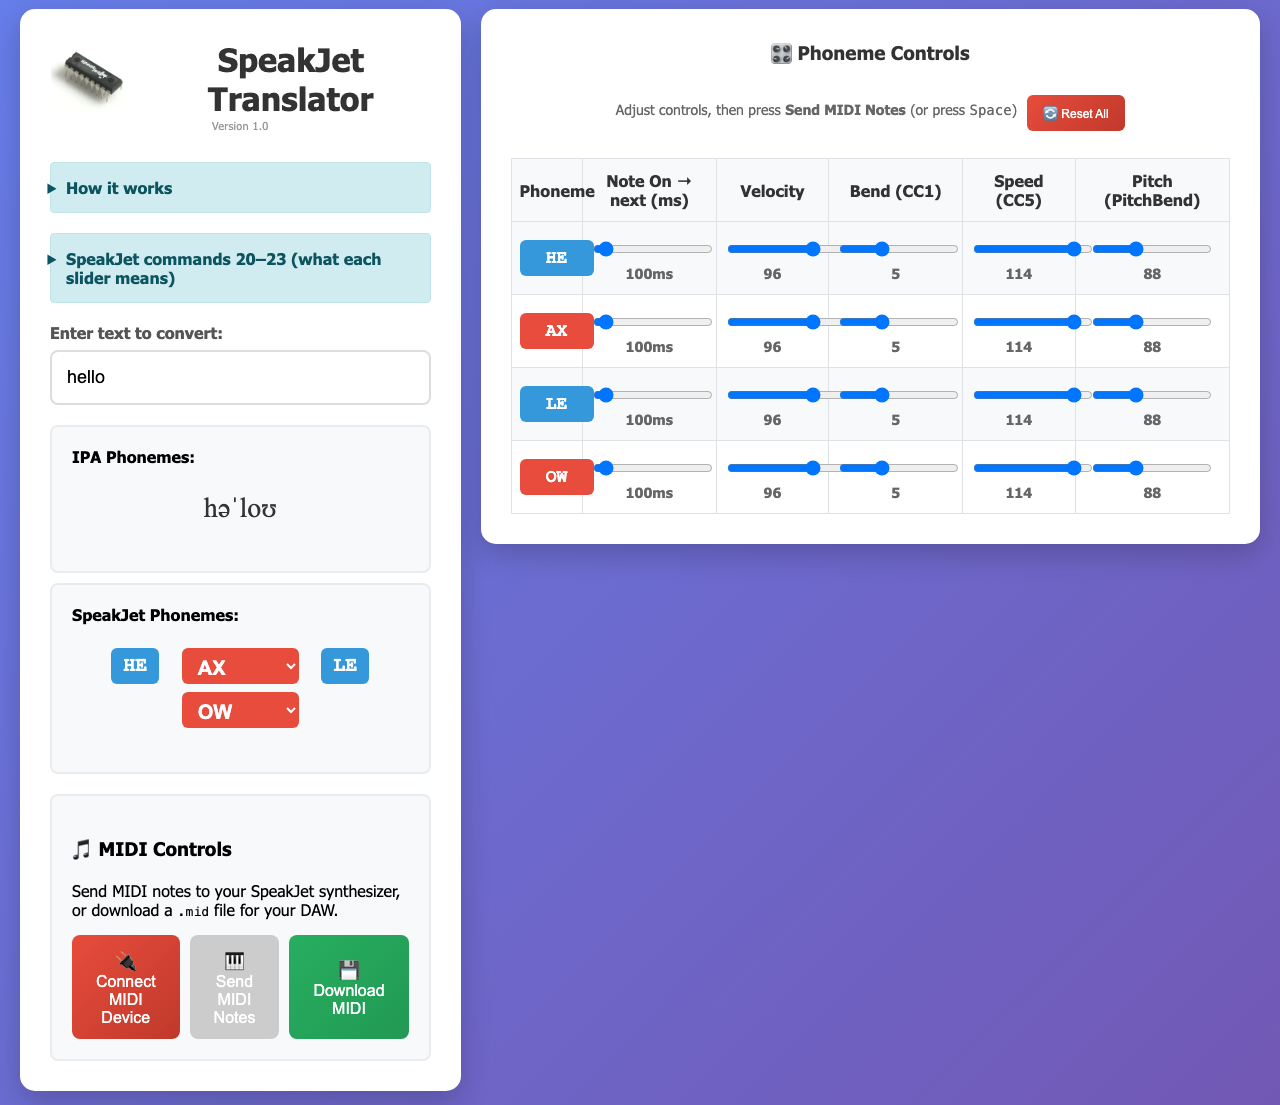
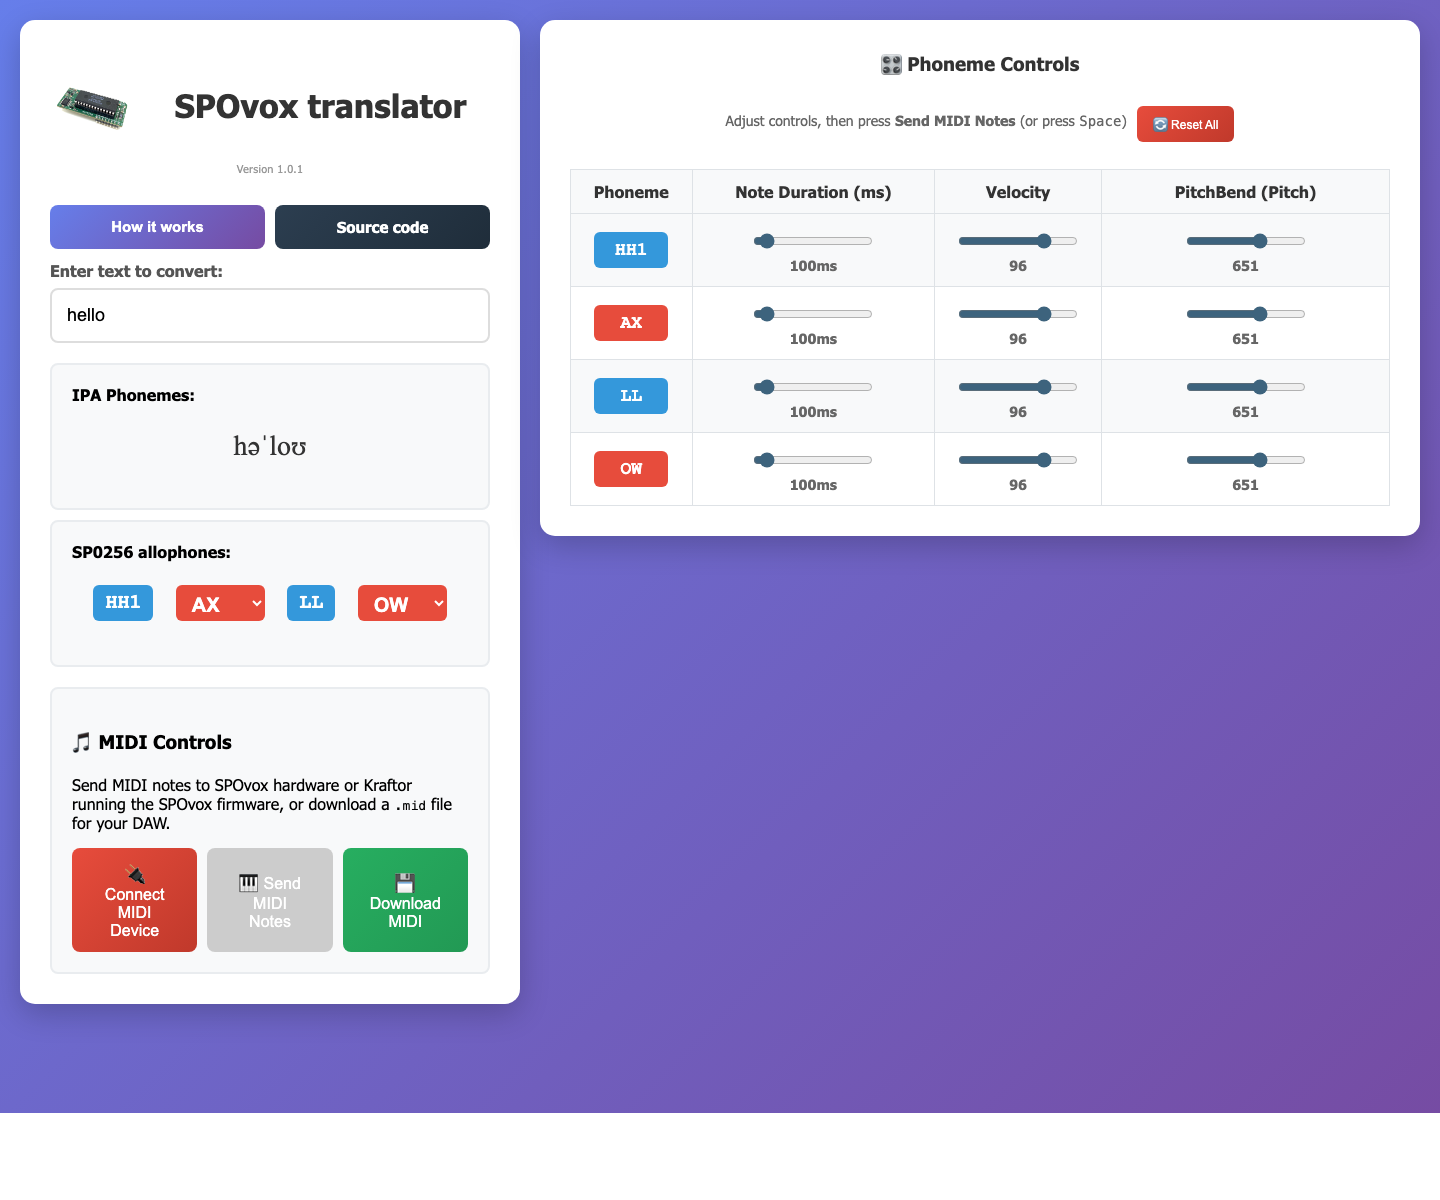
Removing Speakjet References

diff --git a/index.html b/index.html
@@ -4,7 +4,7 @@
 <head>
     <meta charset="UTF-8">
     <meta name="viewport" content="width=device-width, initial-scale=1.0">
-    <title>SP0256 Translator</title>
+    <title>SPOvox translator</title>
     <script src="https://cdn.jsdelivr.net/npm/nexusui@2.1.0/dist/NexusUI.js"></script>
     <style>
         body {
@@ -550,18 +550,18 @@
                             <img src="chip.png" alt="Chip" style="width: 100%; height: auto;">
                         </td>
                         <td style="vertical-align: middle;">
-                            <h1 style="margin: 0;">SP0256 Translator</h1>
+                            <h1 style="margin: 0;">SPOvox translator</h1>
                         </td>
                     </tr>
                 </table>
-                <p class="app-version">Version 1.0</p>
+                <p class="app-version">Version 1.0.1</p>
             </div>
 
             <div class="resource-actions">
                 <button type="button" id="howItWorksBtn" class="resource-btn" aria-expanded="false" aria-controls="howItWorksPanel">
                     How it works
                 </button>
-                <a class="resource-btn source-code-btn" href="#" aria-label="Source code link placeholder">
+                <a class="resource-btn source-code-btn" href="https://deladriere.github.io/Spo_vox_translator/" aria-label="Open SPOvox translator page">
                     Source code
                 </a>
             </div>
@@ -570,7 +570,7 @@
                 <div class="info-body">
                     <ul>
                         <li>Type English text; it is converted to approximate IPA, then mapped to <strong>SP0256-AL2</strong>
-                            allophone labels from the firmware. MIDI <strong>Note On</strong> uses
+                            allophone labels for the <strong>SPOvox firmware</strong> running on <strong>Kraftor</strong>. MIDI <strong>Note On</strong> uses
                             <strong>note = 36 + index</strong> into that table (channel matches your device; default Web MIDI channel 1).</li>
                         <li>Consonants are blue badges; vowels and vowel-like allophones are red dropdowns so you can swap sounds quickly.</li>
                         <li>The <strong>Phoneme Controls</strong> panel sets per-token <strong>note duration</strong> (in ms),
@@ -579,7 +579,7 @@
                         <li><strong>Connect MIDI Device</strong> then <strong>Send MIDI Notes</strong> plays the
                             sequence over Web MIDI (Chrome/Edge). With the text field <em>not</em> focused, <kbd>Space</kbd>
                             sends the sequence.</li>
-                        <li><strong>Download MIDI</strong> saves <code>Spo256.mid</code> for your DAW—no MIDI hardware
+                        <li><strong>Download MIDI</strong> saves <code>SPOvox.mid</code> for your DAW—no MIDI hardware
                             required. Export keeps the same Note On timing as live send and avoids trailing stop events.</li>
                     </ul>
                 </div>
@@ -609,7 +609,7 @@
 
             <div class="midi-section">
                 <h3>🎵 MIDI Controls</h3>
-                <p>Send MIDI notes to your SP0256 bridge (e.g. <code>Emy.ino</code>), or download a <code>.mid</code> file for your DAW.</p>
+                <p>Send MIDI notes to SPOvox hardware or Kraftor running the SPOvox firmware, or download a <code>.mid</code> file for your DAW.</p>
 
                 <div id="midiConnectionStatus" class="status" style="display: none; margin-bottom: 15px;"></div>
 
@@ -645,7 +645,7 @@
     <div id="midiDialog" class="midi-dialog">
         <div class="midi-dialog-content">
             <h3>🎹 Select MIDI Device</h3>
-            <p>Choose a MIDI output device to connect to your SP0256 interface:</p>
+            <p>Choose a MIDI output device to connect to your SPOvox hardware or Kraftor running the SPOvox firmware:</p>
 
             <div id="deviceList" class="device-list">
                 <div class="device-item">Loading MIDI devices...</div>
@@ -659,7 +659,7 @@
     </div>
 
     <script>
-        // SP0256-AL2 allophone labels and MIDI routing (Emy.ino).
+        // SP0256-AL2 allophone labels and MIDI routing for the SPOvox firmware.
         // handleNoteOn: index = note - 36; SPO.writeGPIO(index) with al_label[index].
         const MIDI_PHONEME_CHANNEL = 0;
         const MIDI_NOTE_OFFSET = 36;
@@ -1487,7 +1487,7 @@
                 trackEvents.push(statusByte(0xE0, midiEvent.channel), bendLsb, bendMsb); // Pitch bend before phoneme
                 trackEvents.push(0x00);
                 trackEvents.push(statusByte(0x90, midiEvent.channel), midiEvent.note, velocity);
-                // The SP0256 bridge only needs Note On triggers. Omitting Note Off avoids
+                // SPOvox firmware only needs Note On triggers. Omitting Note Off avoids
                 // trailing PA1 on firmware that maps Note Off to phoneme 0.
                 deltaBeforePhoneme = Math.max(0, delayTicks);
             });
@@ -1510,7 +1510,7 @@
             const url = URL.createObjectURL(blob);
             const a = document.createElement('a');
             a.href = url;
-            a.download = 'Spo256.mid';
+            a.download = 'SPOvox.mid';
             document.body.appendChild(a);
             a.click();
             document.body.removeChild(a);

diff --git a/README.md b/README.md
@@ -1,24 +1,26 @@
-# SpeakJet Translator
+# SPOvox translator
 
-**Version 1.0.1** — A browser-based tool that converts English text into approximate IPA, maps IPA to **SpeakJet** phoneme tokens, and sends the sequence over **Web MIDI** or exports a single-track **Standard MIDI File**.
+**Version 1.0.1** — A browser-based tool for **SPOvox hardware** and **Kraftor running the SPOvox firmware**. It converts English text into approximate IPA, maps IPA to **SP0256-AL2** allophone tokens, and sends the sequence over **Web MIDI** or exports a single-track **Standard MIDI File**.
 
-![SpeakJet Translator — main UI](screenshot.png)
+![SPOvox translator main UI](screenshot.png)
+
+Run it here: https://deladriere.github.io/Spo_vox_translator/
 
 ## What It Does
 
 - Converts typed text to an approximate IPA transcription.
-- Maps IPA symbols to SpeakJet phonemes (MIDI notes per token).
+- Maps IPA symbols to SP0256-AL2 allophones used by the SPOvox firmware (MIDI notes per token).
 - Shows consonants as blue badges and vowels as red dropdowns (quick vowel swapping).
 - **Per-phoneme controls:**
   - **Note Duration (ms)** — per-phoneme note duration in milliseconds.
   - **Velocity** — Note On velocity (default 96).
   - **PitchBend (Pitch)** — UI range **0–1023** (default 651), matching the LTC6903 master clock control value reached through MIDI pitch bend.
 - **Send MIDI Notes** — Web MIDI (Chrome/Edge). Message order per phoneme: **pitch bend → Note On**.
-- **Download MIDI** saves **`Speakjet.mid`** (120 BPM in the file); same parameters as the UI, using Note On trigger timing without extra stop events after the last phoneme.
+- **Download MIDI** saves **`SPOvox.mid`** (120 BPM in the file); same parameters as the UI, using Note On trigger timing without extra stop events after the last phoneme.
 
-## SP0256 bridge controls
+## SPOvox Firmware Controls
 
-This device path uses only the controls the bridge firmware actually consumes at phoneme start.
+This device path uses only the controls the SPOvox firmware actually consumes at phoneme start on SPOvox hardware or Kraftor.
 
 | Cmd | Name | Range (default) | Meaning |
 |-----|------|-----------------|--------|
@@ -32,7 +34,7 @@ This device path uses only the controls the bridge firmware actually consumes at
 
 ## How To Run
 
-1. Open `index.html` in a browser with Web MIDI (Chrome/Edge recommended), or use GitHub Pages if enabled.
+1. Open https://deladriere.github.io/Spo_vox_translator/ in a browser with Web MIDI (Chrome/Edge recommended), or open `index.html` locally.
 2. **Connect MIDI Device** → pick output → **Connect**.
 3. Type text; adjust per-phoneme controls as needed.
 4. **Send MIDI Notes** (device required) or **Download MIDI** (no device), or press **Space** when the text field is not focused.
@@ -43,8 +45,8 @@ This device path uses only the controls the bridge firmware actually consumes at
 
 ## Implementation Notes
 
-- Conversion: `textToIPA(...)` then mapping via **`ipaToSpeakJet`**.
-- Words are concatenated **without** an inter-word silence phoneme. **`PA0`** was for **Robovox** (word gaps); this SpeakJet pipeline does not insert it.
+- Conversion: `textToIPA(...)` then mapping via **`ipaToSp0256`**.
+- Words are concatenated **without** an inter-word silence phoneme. **`PA0`** was for **Robovox** (word gaps); this SPOvox pipeline does not insert it.
 - Live timing uses the configured **Note Duration (ms)** value for each phoneme.
-- The SP0256 bridge path intentionally does not emit extra CC modulation such as CC1/CC5/CC7. Velocity already handles onset level and continuous volume control after speech starts is not useful for this device.
+- The SPOvox firmware path intentionally does not emit extra CC modulation such as CC1/CC5/CC7. Velocity already handles onset level and continuous volume control after speech starts is not useful for this device.
 - Pitch display is expressed as the raw LTC6903 master clock control value so the UI matches `handlePitchBend(...)` in the firmware while still making it clear that MIDI pitch is driven by pitch bend.